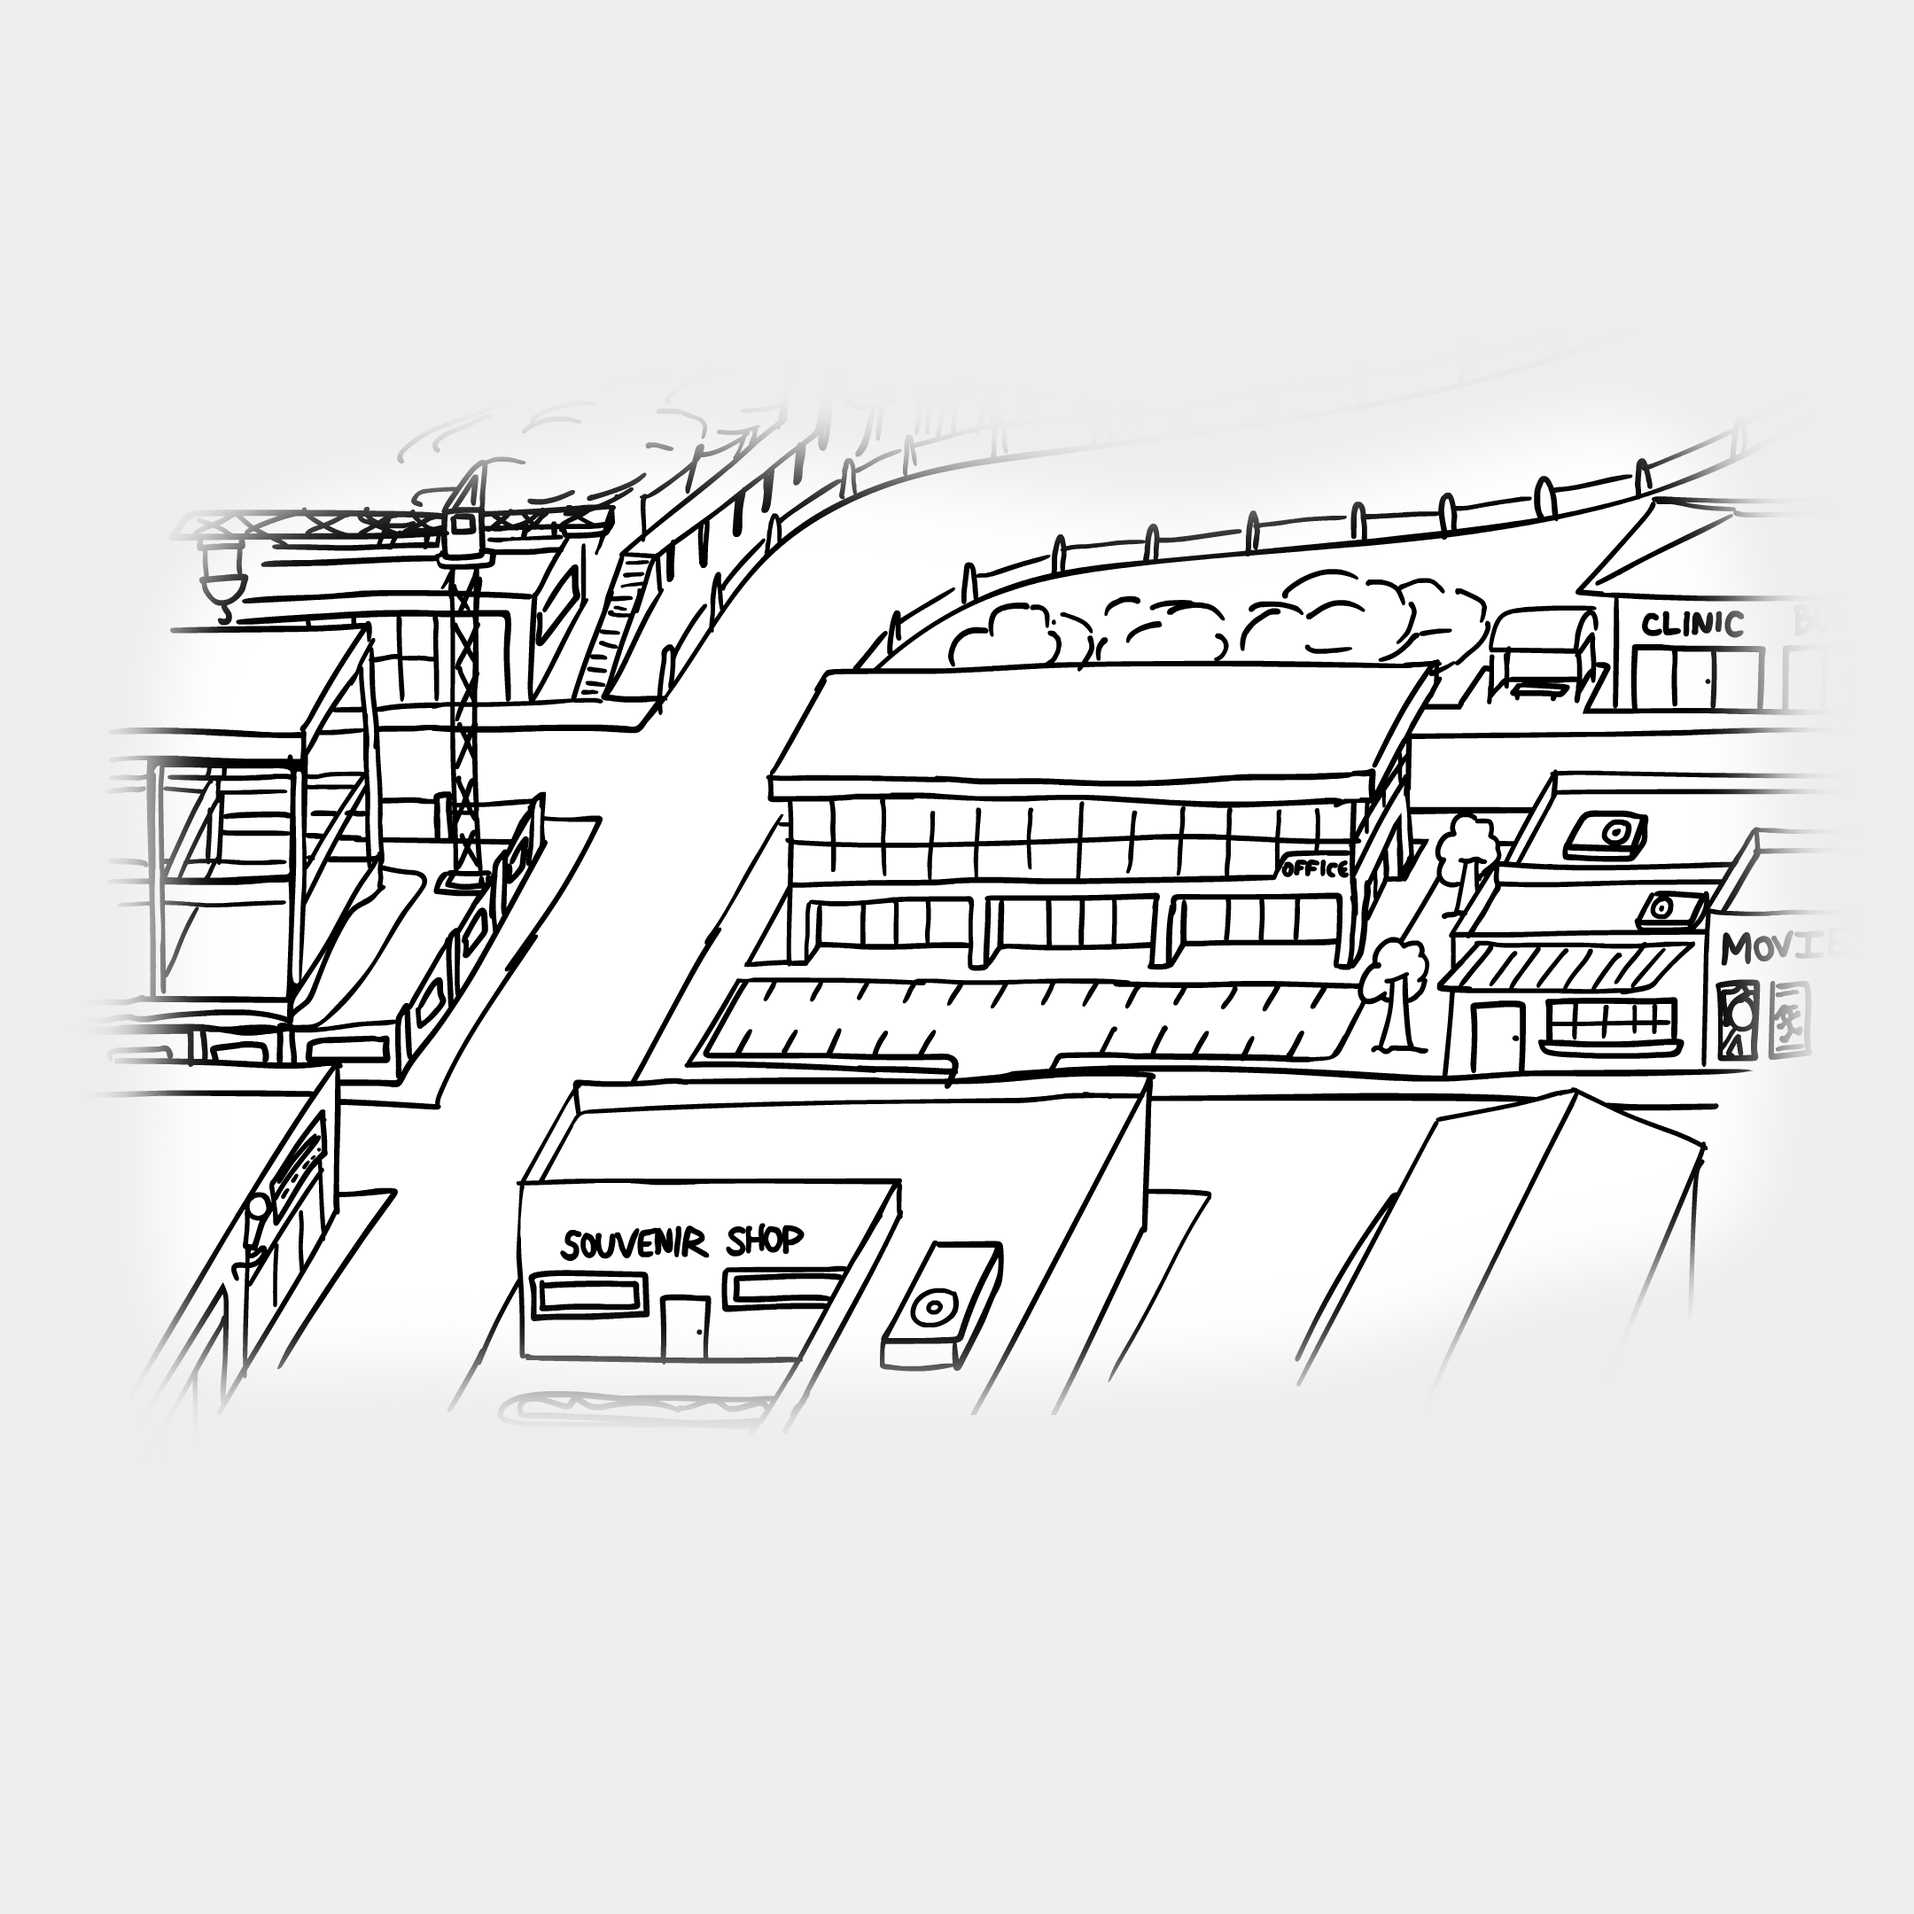
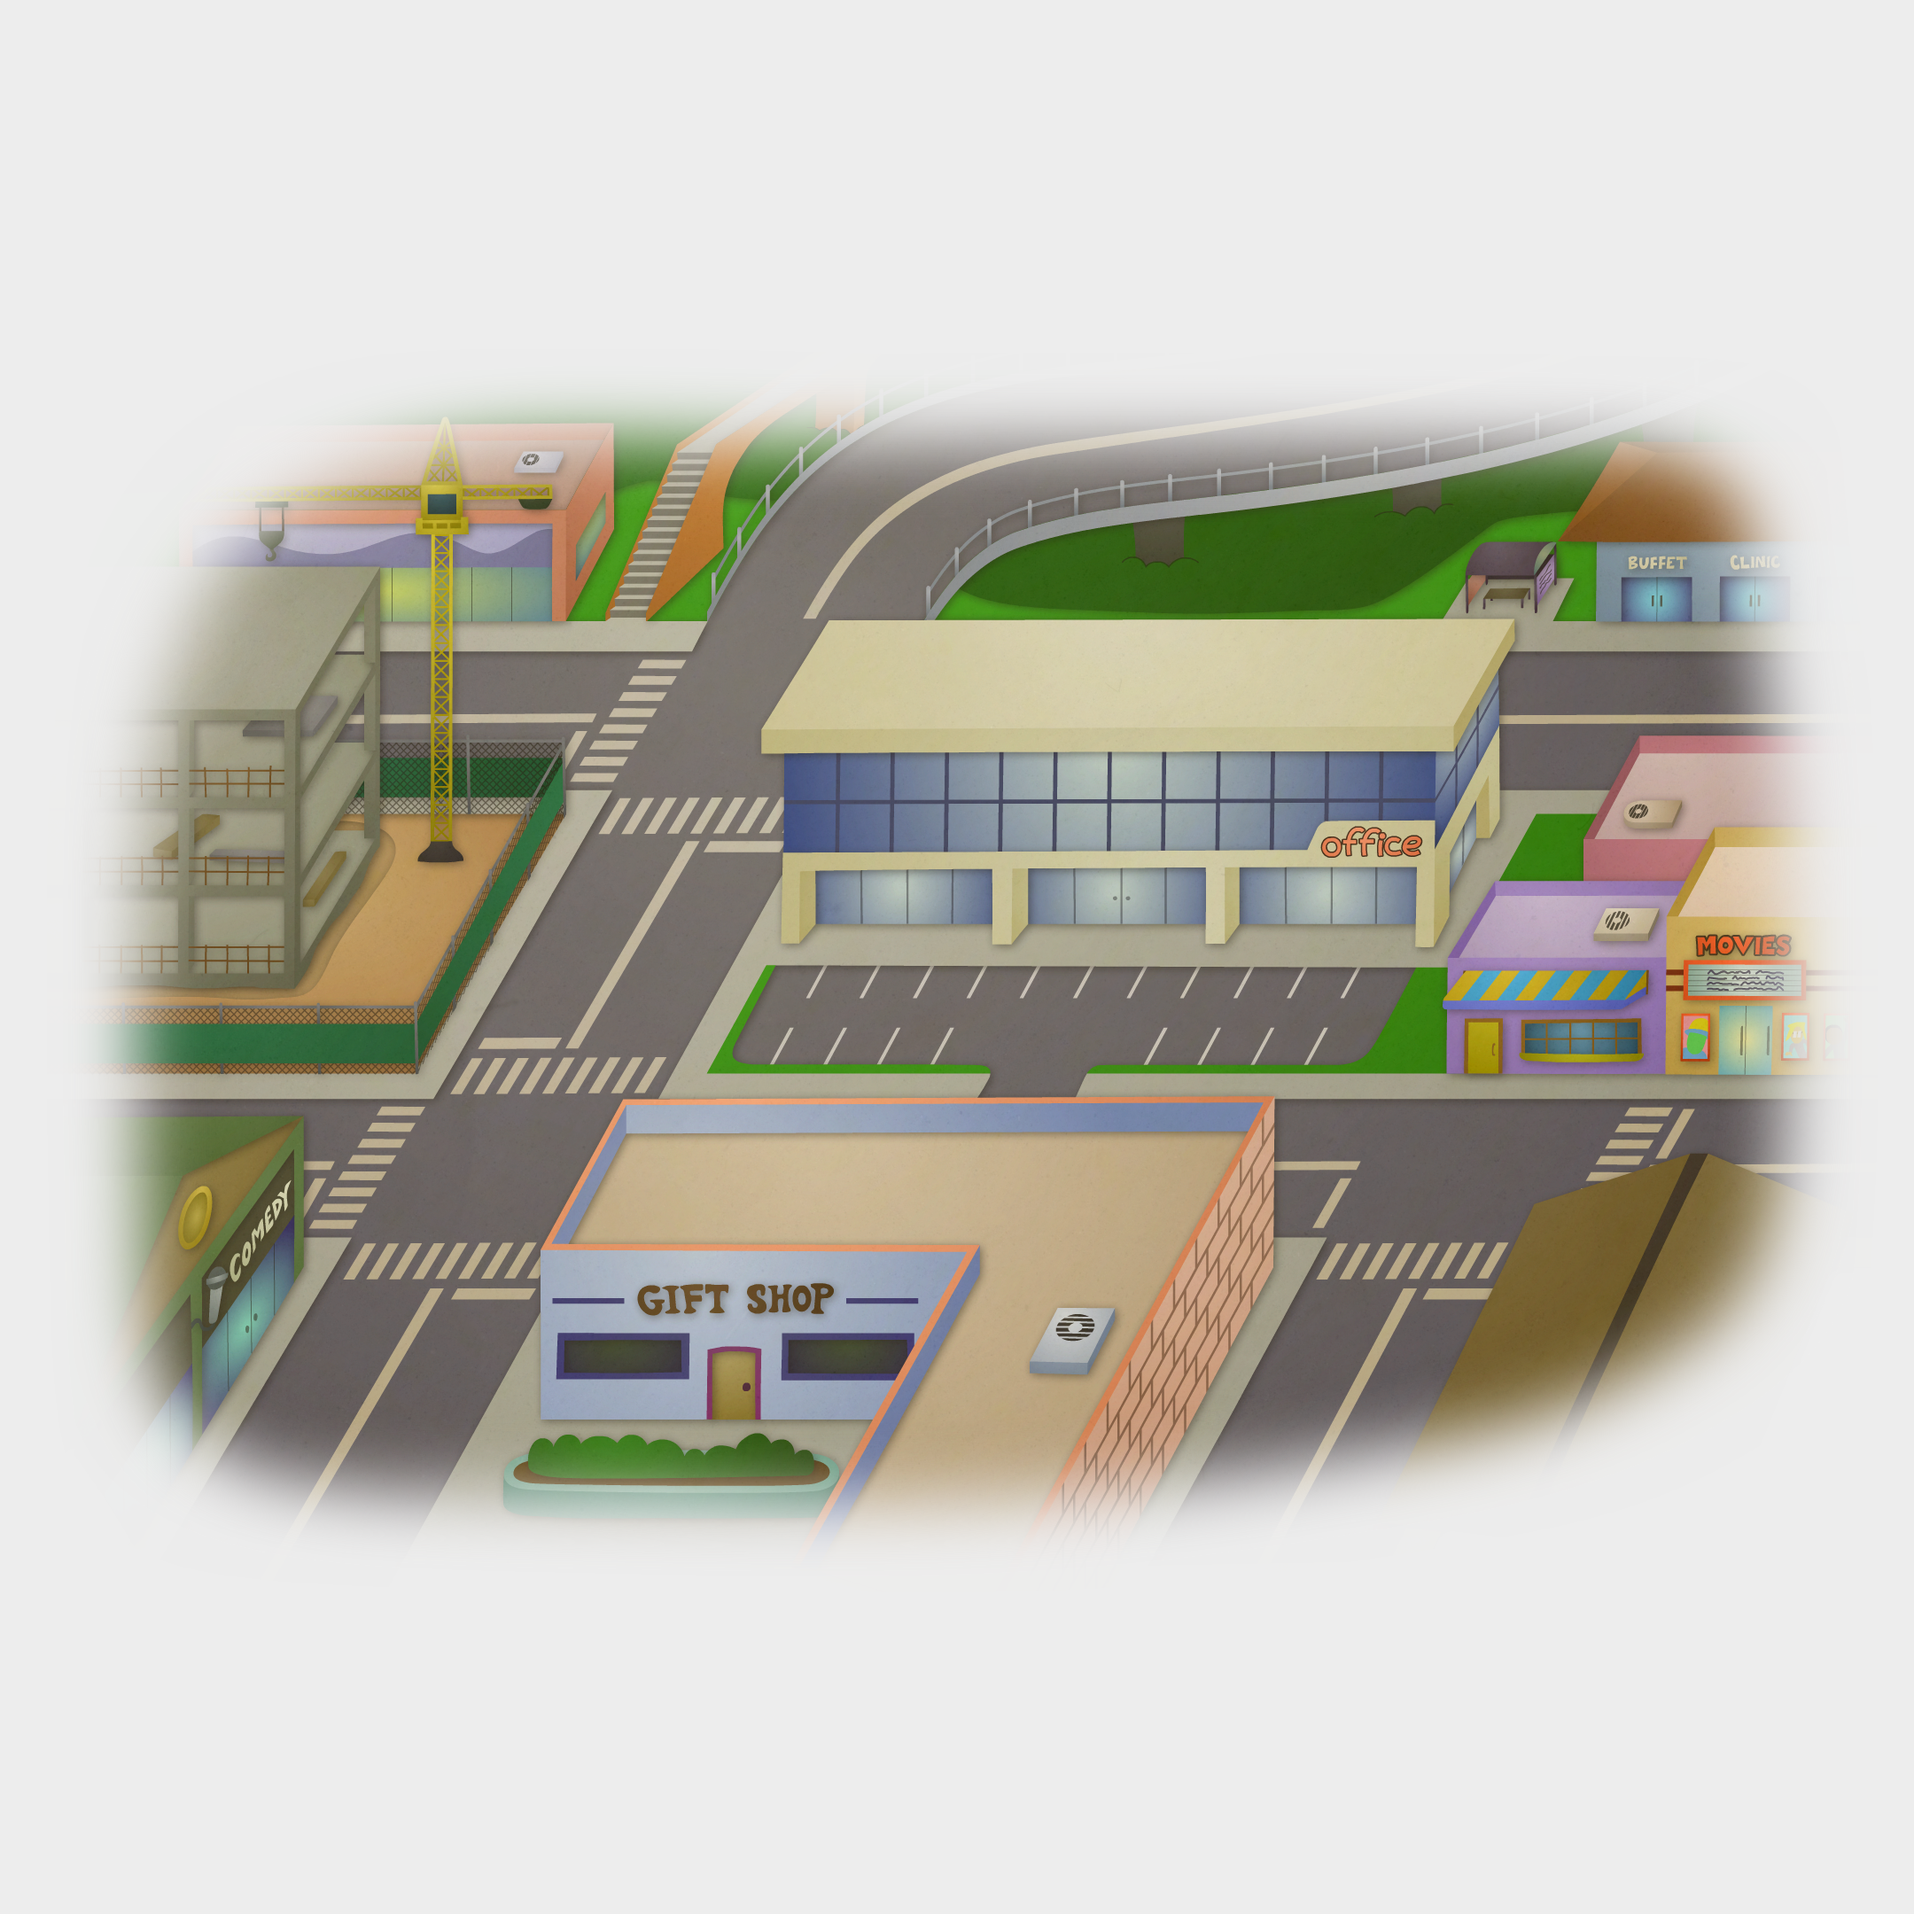
Add completed Commute City Uptown background

diff --git a/frontend/src/constants/regions.js b/frontend/src/constants/regions.js
@@ -45,7 +45,7 @@ const regions = [
         position: [40, 75],
         arrow: [50, "down"],
         image: CityDowntown,
-        direction: [-15, 30],
+        direction: [-20, 30],
         exit: [42, 14],
       },
       {
@@ -54,8 +54,8 @@ const regions = [
         position: [60, 25],
         arrow: [50, "down"],
         image: CityUptown,
-        direction: [15, -30],
-        exit: [50, 80],
+        direction: [20, -30],
+        exit: [19, 78],
       }
     ],
     holdsProjects: true,

diff --git a/frontend/src/stylesheets/Island.css b/frontend/src/stylesheets/Island.css
@@ -203,7 +203,7 @@
 
 .refreshButton {
   position: absolute;
-  right: 10vw;
+  right: -22vw;
   top: 0;
 }
 
